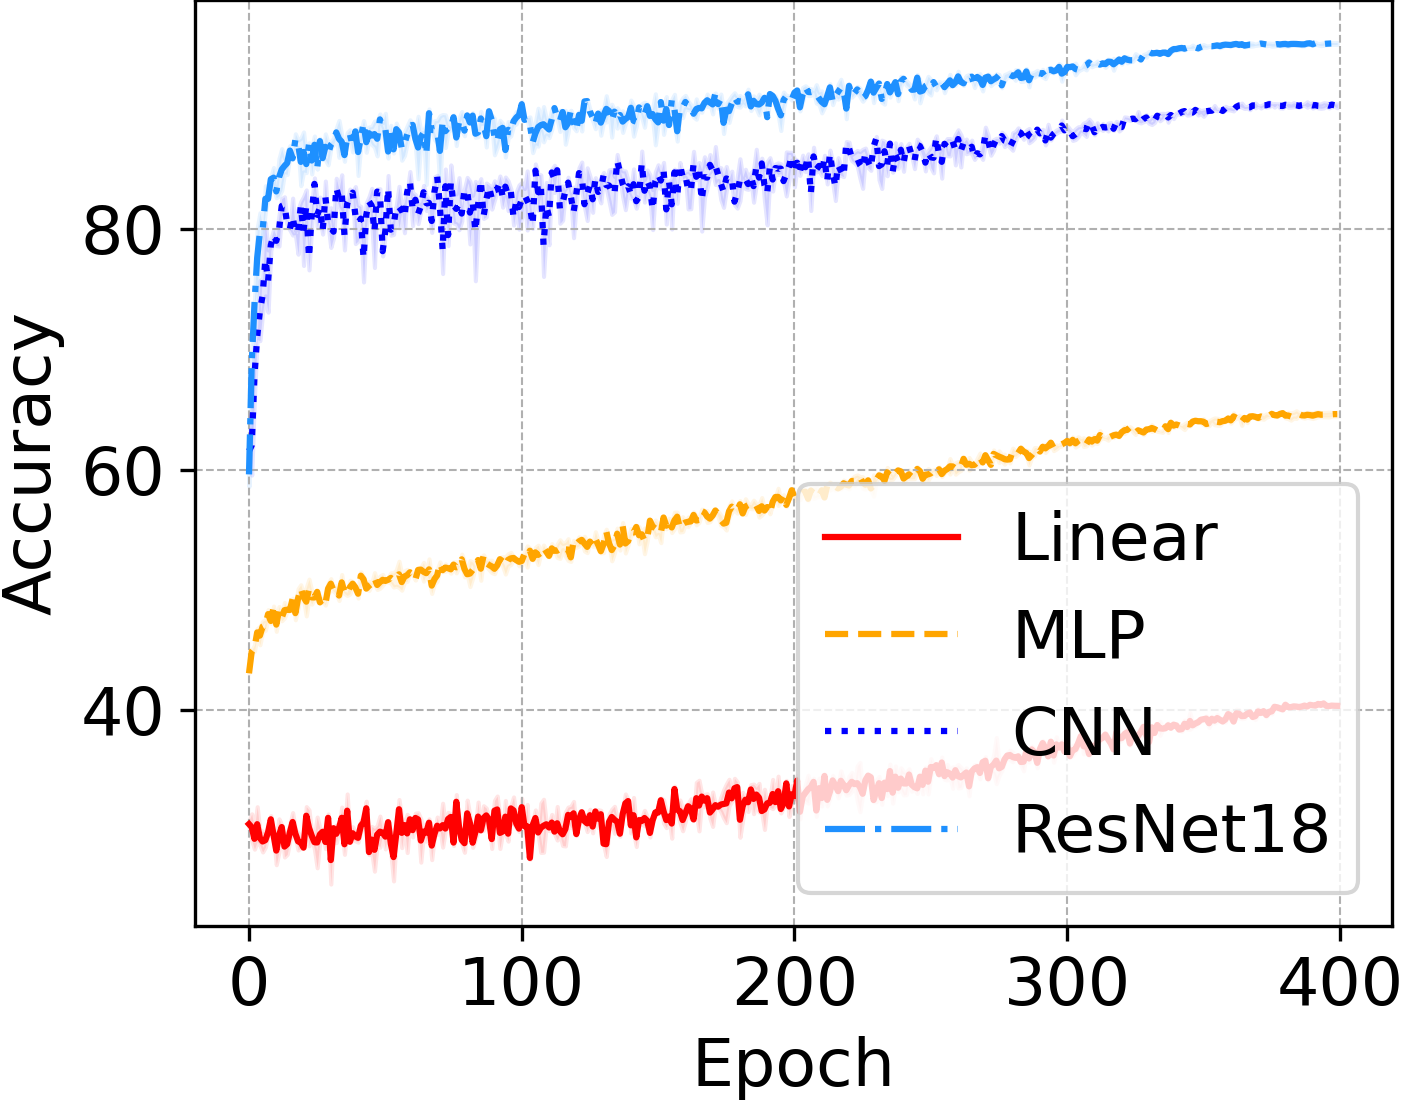
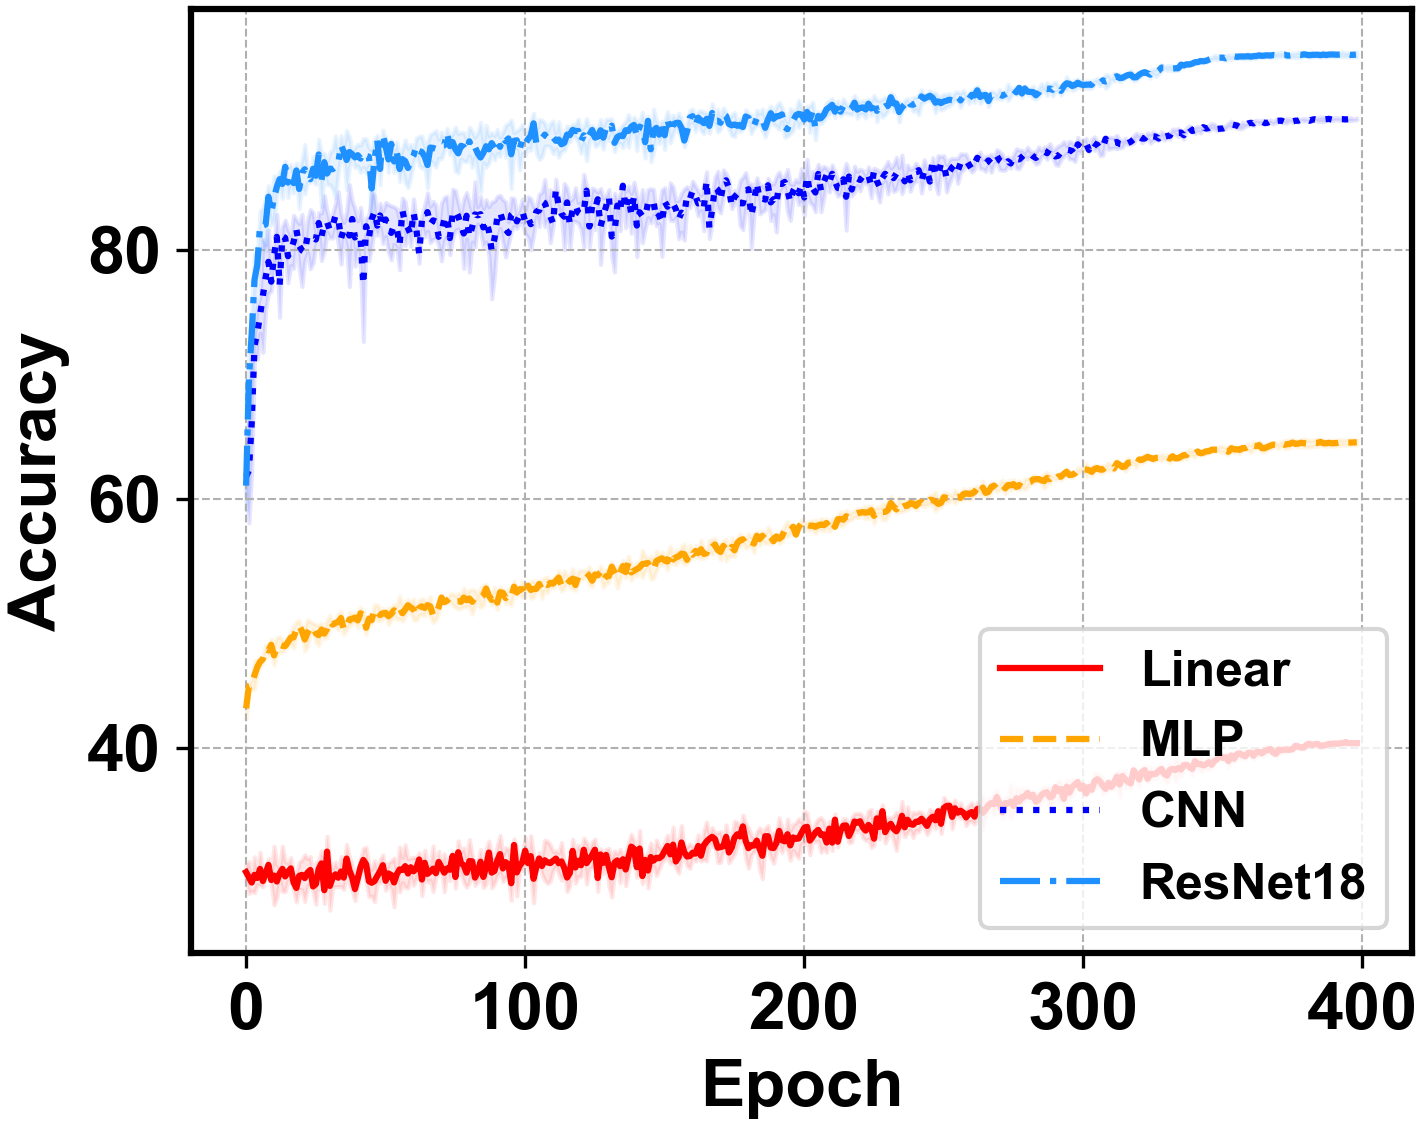
update process

diff --git a/src/process.py b/src/process.py
@@ -2,17 +2,25 @@ import os
 import itertools
 import numpy as np
 import pandas as pd
-from utils import save, load, makedir_exist_ok
+import matplotlib
 import matplotlib.pyplot as plt
+from module import save, load, makedir_exist_ok
 from collections import defaultdict
 
-os.environ["KMP_DUPLICATE_LIB_OK"] = "TRUE"
 result_path = os.path.join('output', 'result')
 save_format = 'png'
 vis_path = os.path.join('output', 'vis', '{}'.format(save_format))
 num_experiments = 4
 exp = [str(x) for x in list(range(num_experiments))]
 dpi = 300
+matplotlib.rcParams['font.sans-serif'] = 'Arial'
+matplotlib.rcParams['font.family'] = 'sans-serif'
+matplotlib.rcParams['font.weight'] = 'bold'
+matplotlib.rcParams['axes.labelweight'] = 'bold'
+matplotlib.rcParams['axes.titleweight'] = 'bold'
+matplotlib.rcParams['axes.linewidth'] = 1.5
+matplotlib.rcParams['xtick.labelsize'] = 'large'
+matplotlib.rcParams['ytick.labelsize'] = 'large'
 
 
 def make_control(control_name):
@@ -57,7 +65,7 @@ def process_result(controls):
         model_tag = '_'.join(control)
         gather_result(list(control), model_tag, result)
     summarize_result(None, result)
-    save(result, os.path.join(result_path, 'processed_result.pt'))
+    save(result, os.path.join(result_path, 'processed_result'))
     processed_result = tree()
     extract_result(processed_result, result, [])
     return processed_result
@@ -66,16 +74,16 @@ def process_result(controls):
 def gather_result(control, model_tag, processed_result):
     if len(control) == 1:
         exp_idx = exp.index(control[0])
-        base_result_path_i = os.path.join(result_path, '{}.pt'.format(model_tag))
+        base_result_path_i = os.path.join(result_path, '{}'.format(model_tag))
         if os.path.exists(base_result_path_i):
             base_result = load(base_result_path_i)
-            for split in base_result['logger']:
-                for metric_name in base_result['logger'][split].mean:
-                    processed_result[split][metric_name]['mean'][exp_idx] = base_result['logger'][split].mean[
-                        metric_name]
-                for metric_name in base_result['logger'][split].history:
-                    processed_result[split][metric_name]['history'][exp_idx] = base_result['logger'][split].history[
-                        metric_name]
+            for split in base_result['logger_state_dict']:
+                for metric_name in base_result['logger_state_dict'][split]['mean']:
+                    processed_result[split][metric_name]['mean'][exp_idx] \
+                        = base_result['logger_state_dict'][split]['mean'][metric_name]
+                for metric_name in base_result['logger_state_dict'][split]['history']:
+                    processed_result[split][metric_name]['history'][exp_idx] \
+                        = base_result['logger_state_dict'][split]['history'][metric_name]
         else:
             print('Missing {}'.format(base_result_path_i))
     else:
@@ -135,13 +143,12 @@ def make_df(processed_result, mode):
         index_name = [1]
         df[df_name].append(pd.DataFrame(data=processed_result[mode][exp_name].reshape(1, -1), index=index_name))
     startrow = 0
-    writer = pd.ExcelWriter('{}/result_{}.xlsx'.format(result_path, mode), engine='xlsxwriter')
-    for df_name in df:
-        df[df_name] = pd.concat(df[df_name])
-        df[df_name].to_excel(writer, sheet_name='Sheet1', startrow=startrow + 1)
-        writer.sheets['Sheet1'].write_string(startrow, 0, df_name)
-        startrow = startrow + len(df[df_name].index) + 3
-    writer.save()
+    with pd.ExcelWriter('{}/result_{}.xlsx'.format(result_path, mode), engine='xlsxwriter') as writer:
+        for df_name in df:
+            df[df_name] = pd.concat(df[df_name])
+            df[df_name].to_excel(writer, sheet_name='Sheet1', startrow=startrow + 1, header=False, index=False)
+            writer.sheets['Sheet1'].write_string(startrow, 0, df_name)
+            startrow = startrow + len(df[df_name].index) + 3
     return df
 
 
@@ -151,7 +158,7 @@ def make_vis_history(df_history):
     linestyle_dict = {'linear': '-', 'mlp': '--', 'cnn': ':', 'resnet18': '-.'}
     marker_dict = {'linear': 'o', 'mlp': 's', 'cnn': 'p', 'resnet18': 'd'}
     loc_dict = {'Accuracy': 'lower right', 'Loss': 'upper right'}
-    fontsize_dict = {'legend': 16, 'label': 16, 'ticks': 16}
+    fontsize_dict = {'legend': 12, 'label': 16, 'ticks': 16}
     figsize = (5, 4)
     fig = {}
     ax_dict_1 = {}
@@ -184,12 +191,12 @@ def make_vis_history(df_history):
     for fig_name in fig:
         fig[fig_name] = plt.figure(fig_name)
         ax_dict_1[fig_name].grid(linestyle='--', linewidth='0.5')
-        fig[fig_name].tight_layout()
         dir_name = 'lc'
         dir_path = os.path.join(vis_path, dir_name)
         fig_path = os.path.join(dir_path, '{}.{}'.format(fig_name, save_format))
         makedir_exist_ok(dir_path)
-        plt.savefig(fig_path, dpi=dpi, bbox_inches='tight', pad_inches=0)
+        plt.tight_layout()
+        plt.savefig(fig_path, dpi=dpi, bbox_inches='tight', pad_inches=0.03)
         plt.close(fig_name)
     return
 

diff --git a/src/summary.py b/src/summary.py
@@ -41,7 +41,7 @@ def runExperiment():
     input = collate(input)
     input = to_device(input, cfg['device'])
     model = make_model(cfg['model_name'])
-    content = summary(model, input_data=[{'data': input['data']}],
+    content = summary(model, input_data=[{'data': input['data']}], depth=50,
                       col_names=['input_size', 'output_size', 'num_params', 'params_percent', 'kernel_size',
                                  'mult_adds', 'trainable'])
     print(content)
